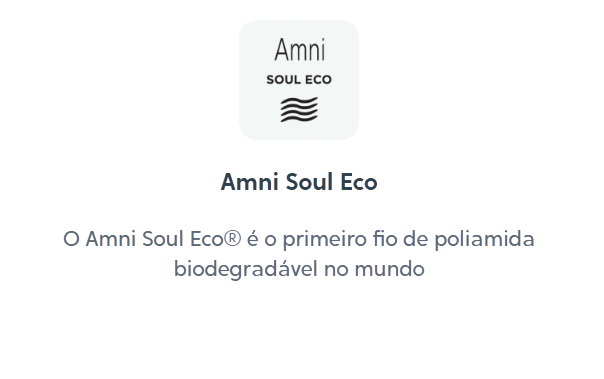
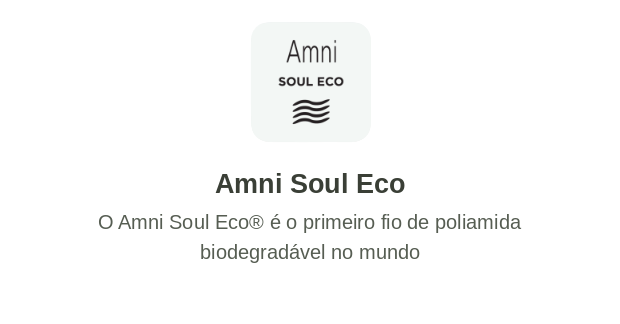
fix(storefront): legibilidade do texto claro em 4 seções da home (#36)
Pedido explícito: o texto em cinza-esverdeado claro (--gray-400,
#a4aa9d) usado nos parágrafos de várias seções estava difícil de ler —
trocado por um cinza bem mais forte (--gray-600, #565d52) e aumentado o
tamanho da fonte:

- .lifestyle-p (subtítulo do banner "Performance é o seu padrão."):
  branco a 50% de opacidade sobre a foto → 88% de opacidade, fonte maior.
- .story-card p (cards "Missão & Visão" / "Público-Alvo"): --gray-400
  .78rem → --gray-600 .86rem.
- .story-tech p (texto de introdução da seção Tecnologia Sustentável):
  mesma troca.
- .bm-body (parágrafo "Existe para transformar." em #about): mesma troca.

Também os 4 selos de certificação (Sou de Algodão, Amni Soul Eco, Green
Fiber, Eco Logic) tinham o texto de título/descrição desenhado DENTRO da
própria imagem PNG — não dava pra corrigir só com CSS. Recriei as 4
imagens preservando o ícone original (recortado da imagem fonte) e
redesenhando o título e a descrição com cor mais forte e fonte maior.
Troquei também o grid de 4 para 2 colunas (.cert-grid) — a essa altura,
cada selo ocupava um espaço tão pequeno na página que mesmo um texto
"maior" dentro da imagem ficaria minúsculo depois de redimensionado;
com 2 colunas, cada cartão fica ~2x maior na tela.

Verificado visualmente (Playwright local, antes/depois) nas 4 seções
antes de subir.

Claude-Session: https://claude.ai/code/session_016jTUQ8WtUPq7p31ZHHpLTa

Changed region(s): [[0.0894, 0.4321, 0.894, 0.8333], [0.447, 0.0926, 0.5662, 0.4012]]

diff --git a/apps/storefront/style.css b/apps/storefront/style.css
@@ -368,7 +368,7 @@ h2 em{font-family:var(--font-serif);font-style:italic;font-weight:300;color:var(
 .lifestyle-tag{font-size:.58rem;font-weight:700;letter-spacing:.4em;text-transform:uppercase;color:var(--nude-light);margin-bottom:14px}
 .lifestyle-h{font-family:var(--font-display);font-size:clamp(2.6rem,6vw,6rem);letter-spacing:.04em;line-height:.94;color:var(--white);text-transform:uppercase;margin-bottom:20px}
 .lifestyle-h em{font-family:var(--font-serif);font-style:italic;font-weight:300;color:var(--nude-light);font-size:.9em}
-.lifestyle-p{font-size:.86rem;color:rgba(255,255,255,.5);line-height:1.85;font-weight:300;margin-bottom:34px;max-width:340px}
+.lifestyle-p{font-size:.98rem;color:rgba(255,255,255,.88);line-height:1.8;font-weight:300;margin-bottom:34px;max-width:360px}
 .lifestyle-btns{display:flex;gap:14px;flex-wrap:wrap}
 
 /* ════════════════════════════════
@@ -428,7 +428,7 @@ h2 em{font-family:var(--font-serif);font-style:italic;font-weight:300;color:var(
 .story-icon{width:52px;height:52px;border-radius:50%;overflow:hidden;margin-bottom:14px;line-height:1}
 .story-icon img{width:100%;height:100%;object-fit:cover;display:block}
 .story-card h3{font-family:var(--font-display);font-size:1.05rem;letter-spacing:.04em;text-transform:uppercase;color:var(--black);margin-bottom:12px}
-.story-card p{font-size:.78rem;color:var(--gray-400);line-height:1.8;font-weight:300}
+.story-card p{font-size:.86rem;color:var(--gray-600);line-height:1.8;font-weight:300}
 /* Tagline em destaque — banner de texto centralizado, sem foto */
 .story-tagline .split-info{justify-content:center}
 /* Bloco final de Tecnologia Sustentável — centralizado, fora do grid de
@@ -436,8 +436,8 @@ h2 em{font-family:var(--font-serif);font-style:italic;font-weight:300;color:var(
    de certificação (extraídos do Manual da Marca) */
 .story-tech{max-width:920px;margin:0 auto;text-align:center;padding:40px 32px;background:var(--off-white);border:1.5px solid var(--beige);border-radius:6px}
 .story-tech h3{font-family:var(--font-display);font-size:1.05rem;letter-spacing:.04em;text-transform:uppercase;color:var(--black);margin-bottom:12px}
-.story-tech p{font-size:.78rem;color:var(--gray-400);line-height:1.8;font-weight:300;max-width:520px;margin:0 auto 28px}
-.cert-grid{display:grid;grid-template-columns:repeat(4,1fr);gap:14px}
+.story-tech p{font-size:.86rem;color:var(--gray-600);line-height:1.8;font-weight:300;max-width:520px;margin:0 auto 28px}
+.cert-grid{display:grid;grid-template-columns:1fr 1fr;gap:24px 20px}
 .cert-grid img{width:100%;height:auto;border-radius:4px}
 
 /* ════════════════════════════════
@@ -730,7 +730,7 @@ details.modal-details summary:hover{color:var(--nude)}
 .bm-tag{font-size:.58rem;font-weight:700;letter-spacing:.35em;text-transform:uppercase;color:var(--nude);margin-bottom:16px}
 .bm-quote{font-family:var(--font-display);font-size:clamp(2.4rem,5vw,4.8rem);letter-spacing:.04em;line-height:1;color:var(--black);text-transform:uppercase;margin-bottom:24px;font-style:normal}
 .bm-quote em{font-family:var(--font-serif);font-style:italic;color:var(--nude);font-weight:300;font-size:.88em}
-.bm-body{font-size:.85rem;color:var(--gray-400);line-height:1.9;max-width:400px;margin-bottom:30px;font-weight:300}
+.bm-body{font-size:.94rem;color:var(--gray-600);line-height:1.85;max-width:420px;margin-bottom:30px;font-weight:300}
 .bm-viz{display:grid;grid-template-columns:1fr 1fr;gap:11px}
 .bv-item{border-radius:4px;overflow:hidden}
 .bv-in{width:100%;transition:transform .5s var(--ease)}
@@ -834,7 +834,7 @@ details.modal-details summary:hover{color:var(--nude)}
   .brand-msg{padding:72px 20px}
   .brand-story{padding:56px 20px}
   .story-grid{grid-template-columns:1fr}
-  .cert-grid{grid-template-columns:1fr 1fr}
+  .cert-grid{grid-template-columns:1fr}
   .collection{padding:72px 20px}
   .coll-showcase{grid-template-columns:repeat(2,1fr);gap:16px 11px}
   .ig-feed{padding:56px 20px}
